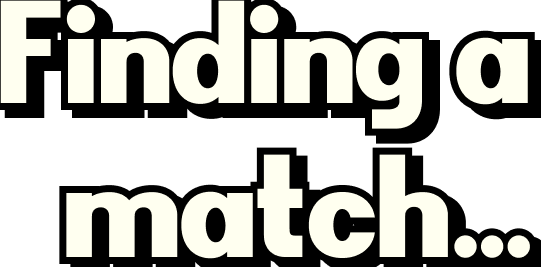
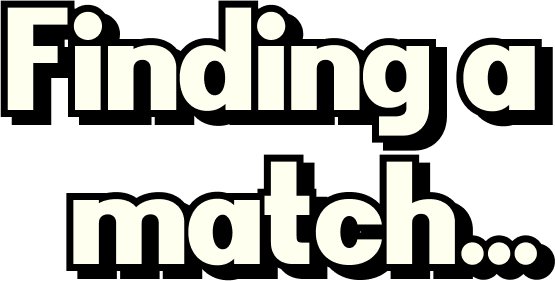
links and loading set up

Changed region(s): [[0.0, 0.0, 1.0, 1.0]]

diff --git a/client/src/scenes/load.js b/client/src/scenes/load.js
@@ -1,14 +1,37 @@
-export default class Load extends Phaser.Scene {
+export default class Loading extends Phaser.Scene {
     constructor() {
-        super('Load')
+        super('Loading')
     }
 
     preload() {
-        this.load.image('menu','assets/mainMenu.png');
+        this.load.image('bg', 'assets/bgtest.png');
+        this.load.image('findingMatch', 'assets/loading_assets/loadingTitle.png');
+        this.load.image('cancel', 'assets/loading_assets/cancelButton.png');
+        this.load.spritesheet('loop', 'assets/loading_assets/loadingGifSprite.png', { frameWidth: 200, frameHeight: 200 });
+        this.load.image('loopBorder', 'assets/loading_assets/loadingBorder.png');
     }
 
     create () {
-        this.add.image(600,400, 'menu')
-        this.input.on('pointerdown', () => this.scene.start('Game'));
+        this.anims.create({
+            key: "load",
+            frameRate: 15,
+            frames: this.anims.generateFrameNumbers("loop", { start: 0, end: 15 }),
+            repeat: -1
+        });
+
+        this.bg = this.add.image(0, 0, 'bg');
+        this.title = this.add.image(1000, 390, 'findingMatch').setScale(0.75, 0.75).setInteractive();
+        this.cancel = this.add.image(330, 600, 'cancel').setScale(0.75, 0.75).setInteractive();
+        this.loop = this.add.sprite(320, 360, 'loop').setScale(0.60, 0.60).setInteractive();
+        this.loop.setDepth(1);
+        this.loop.play("load");
+        this.loop.setStroke('#000000', 6);
+        this.loop.setShadow(4, 4, '#000000', 0);
+        this.loopBorder = this.add.image(320, 360, 'loopBorder').setScale(0.75, 0.75).setInteractive();
+        Phaser.Display.Align.In.Center(this.bg, this.add.zone(640, 390, 1280, 780));
+
+        this.cancel.on('pointerup', function (pointer) {
+            this.scene.start('MainMenu');
+        }, this);
     }
 }

diff --git a/client/src/scenes/mainmenu.js b/client/src/scenes/mainmenu.js
@@ -13,9 +13,22 @@ export default class MainMenu extends Phaser.Scene {
 
     create () {
         this.bg = this.add.image(0, 0, 'bg');
-        this.playButton = this.add.image(40, 40, 'playButton').setScale(0.75, 0.75).setInteractive();
-        this.profileButton = this.add.image(80, 80, 'profileButton').setScale(0.75, 0.75).setInteractive();
-        this.rankingsButton = this.add.image(100, 100, 'rankingsButton').setScale(0.75, 0.75).setInteractive();
-        this.title = this.add.image(600, 100, 'title').setScale(0.75, 0.75).setInteractive();
+        this.playButton = this.add.image(460, 500, 'playButton').setScale(0.75, 0.75).setInteractive();
+        this.profileButton = this.add.image(960, 570, 'profileButton').setScale(0.75, 0.75).setInteractive();
+        this.rankingsButton = this.add.image(950, 393, 'rankingsButton').setScale(0.75, 0.75).setInteractive();
+        this.title = this.add.image(650, 150, 'title').setScale(0.75, 0.75).setInteractive();
+        Phaser.Display.Align.In.Center(this.bg, this.add.zone(640, 390, 1280, 780)); 
+
+        this.playButton.on('pointerup', function (pointer) {
+            this.scene.start('Loading');
+        }, this);
+
+        this.profileButton.on('pointerup', function (pointer) {
+            this.scene.start('Profile');
+        }, this);
+
+        this.rankingsButton.on('pointerup', function (pointer) {
+            this.scene.start('Rankings');
+        }, this)
     }
 }

diff --git a/client/src/scenes/login.js b/client/src/scenes/login.js
@@ -59,7 +59,7 @@ export default class Login extends Phaser.Scene
                     firebaseApp.signInWithEmailAndPassword(inputUsername.value, inputPassword.value)
                     .then(cred => {
                         console.log(cred);
-                        this.scene.scene.start('Game');
+                        this.scene.scene.start('MainMenu');
                     })
                     .catch(function(error) {
                         // Handle Errors here

diff --git a/client/src/index.js b/client/src/index.js
@@ -1,6 +1,6 @@
 import Phaser from "phaser";
 import Game from "./scenes/game";
-import Load from "./scenes/load";
+import Loading from "./scenes/load";
 import Login from "./scenes/login";
 import Signup from "./scenes/signup";
 import MainMenu from "./scenes/mainmenu";
@@ -19,7 +19,7 @@ const config = {
     },
     scene: [
         Login,
-        Load,
+        Loading,
         Game,
         Profile,
         Signup,

diff --git a/client/src/scenes/profile.js b/client/src/scenes/profile.js
@@ -52,7 +52,7 @@ export default class Game extends Phaser.Scene {
 
         this.exit.on('pointerup', function (pointer) {
             console.log("I was clicked!");
-            this.scene.start('Game');
+            this.scene.start('MainMenu');
         }, this)
 
         let firebaseApp = this.plugins.get('FirebasePlugin');

diff --git a/client/src/scenes/game.js b/client/src/scenes/game.js
@@ -73,7 +73,7 @@ export default class Game extends Phaser.Scene {
         
         btnQuit.on('pointerdown', () => {
             this.socket.disconnect();
-            this.scene.start('Load');
+            this.scene.start('MainMenu');
         });
         
         //End turn button, switch play capability

diff --git a/client/src/scenes/rankings.js b/client/src/scenes/rankings.js
@@ -65,7 +65,7 @@ export default class Rankings extends Phaser.Scene {
 
         this.exit.on('pointerup', function (pointer) {
             console.log("I was clicked!");
-            this.scene.start('Game');
+            this.scene.start('MainMenu');
         }, this)
     }
     
